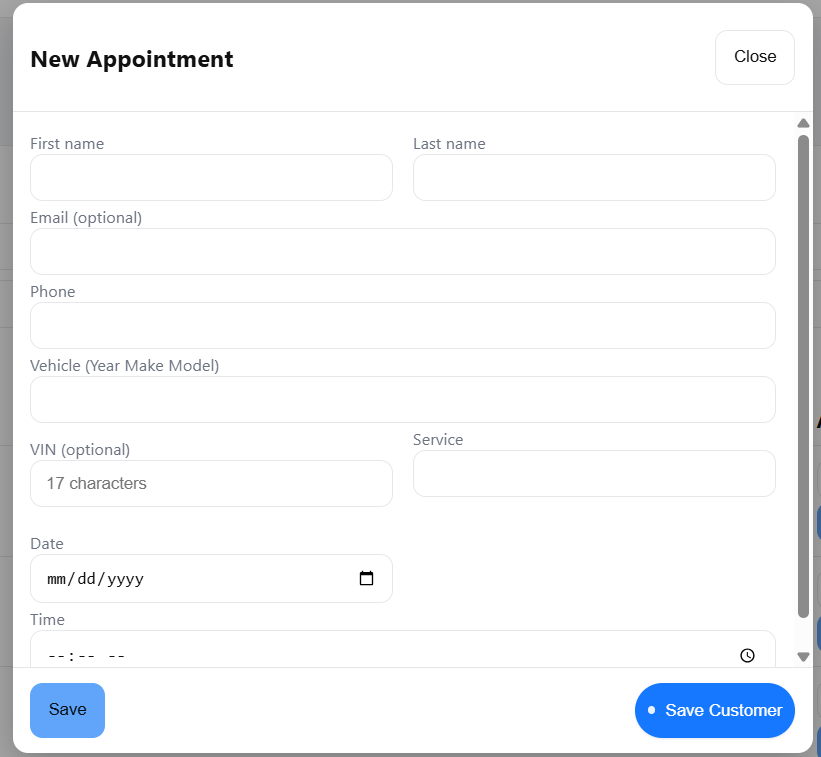
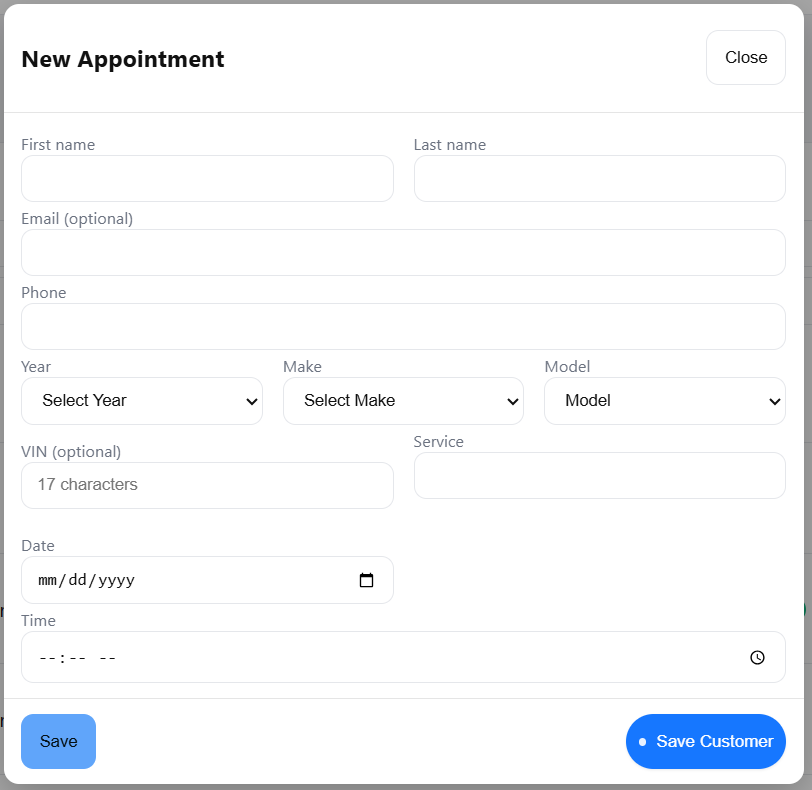
chore(appointments): adjust modal positioning and disable inner modal scroll; add updated feature images

diff --git a/features.html b/features.html
@@ -178,15 +178,16 @@
         margin-top: 8px;
         margin-bottom: 0;
       }
-      .features-main { padding: 0 4px; }
+      .features-main { padding: 0 12px; }
       .features-title { font-size: 1.3rem; }
       .features-desc { font-size: 1rem; margin-bottom: 24px; }
       .feature-section, .feature-section.reverse {
         flex-direction: column !important;
         gap: 8px;
-        padding: 8px 4px;
-        margin-bottom: 12px;
-        box-shadow: 0 1px 4px rgba(0,0,0,0.04);
+        padding: 12px;
+        margin-bottom: 16px;
+        box-shadow: 0 1px 6px rgba(0,0,0,0.06);
+        border-radius: 10px;
       }
       .feature-img {
         width: 100%;
@@ -203,6 +204,14 @@
       .slideshow img { border-radius: 10px; }
       .footer { font-size: 0.98rem; padding: 18px 0 8px 0; margin-top: 32px; }
     }
+
+    /* Image modal for feature screenshots */
+    .image-modal{ position:fixed; inset:0; display:flex; align-items:center; justify-content:center; background:rgba(0,0,0,0.6); z-index:2200 }
+    .image-modal.hidden{ display:none }
+    .image-modal-content{ position:relative; max-width:92%; max-height:92%; padding:10px; box-sizing:border-box }
+    .image-modal-content img{ width:auto; max-width:100%; max-height:82vh; display:block; border-radius:8px; box-shadow:0 12px 36px rgba(0,0,0,0.6) }
+    .image-modal-close{ position:absolute; top:-12px; right:-12px; width:40px; height:40px; border-radius:20px; border:none; background:#fff; color:#111; font-size:20px; cursor:pointer; box-shadow:0 6px 18px rgba(0,0,0,0.2) }
+    .image-modal-caption{ margin-top:8px; text-align:center; color:#fff; font-size:0.95rem }
   </style>
 </head>
 <body>
@@ -309,6 +318,14 @@
           </div>
         </div>
   </main>
+  <!-- Image modal -->
+  <div id="imageModal" class="image-modal hidden" aria-hidden="true">
+    <div class="image-modal-content" role="dialog" aria-modal="true">
+      <button class="image-modal-close" aria-label="Close">×</button>
+      <img id="imageModalImg" src="" alt="" />
+      <div id="imageModalCaption" class="image-modal-caption"></div>
+    </div>
+  </div>
   <footer class="footer" style="background:#f6f8ff;padding:32px 0 16px 0;text-align:center;color:#7f5fff;font-size:1.08rem;">
     <span>© 2025 Xpose Management</span>
     <div style="margin-top:18px;font-size:1.08rem;">
@@ -318,5 +335,40 @@
       <a href="contact.html" style="color:#2a7cff;font-weight:600;">Contact/Support</a>
     </div>
   </footer>
+  <script>
+    (function(){
+      function openModal(src, alt){
+        const modal = document.getElementById('imageModal');
+        const img = document.getElementById('imageModalImg');
+        const cap = document.getElementById('imageModalCaption');
+        if(!modal || !img) return;
+        img.src = src;
+        img.alt = alt || '';
+        if(cap) cap.textContent = alt || '';
+        modal.classList.remove('hidden');
+        modal.setAttribute('aria-hidden','false');
+      }
+      function closeModal(){
+        const modal = document.getElementById('imageModal');
+        const img = document.getElementById('imageModalImg');
+        if(!modal || !img) return;
+        modal.classList.add('hidden');
+        modal.setAttribute('aria-hidden','true');
+        img.src = '';
+      }
+      document.addEventListener('DOMContentLoaded', function(){
+        const imgs = document.querySelectorAll('.feature-img, .slideshow img');
+        imgs.forEach(i => {
+          i.style.cursor = 'zoom-in';
+          i.addEventListener('click', (e) => { openModal(i.src, i.alt || ''); });
+        });
+        const closeBtn = document.querySelector('.image-modal-close');
+        const modal = document.getElementById('imageModal');
+        if(closeBtn) closeBtn.addEventListener('click', closeModal);
+        if(modal) modal.addEventListener('click', (e) => { if(e.target === modal) closeModal(); });
+        document.addEventListener('keydown', (e) => { if(e.key === 'Escape') closeModal(); });
+      });
+    })();
+  </script>
 </body>
 </html>

diff --git a/appointments.html b/appointments.html
@@ -23,8 +23,36 @@
     .splitbar .left { display:flex; align-items:center; gap:8px; }
     .splitbar .right { display:flex; align-items:center; gap:8px; }
 
-    .modal-backdrop { position:fixed; inset:0; background:rgba(0,0,0,.35); display:flex; align-items:center; justify-content:center; z-index:70; }
-    .modal-card { width:min(640px,92vw); background:var(--card,#fff); color:inherit; border-radius:12px; box-shadow:0 10px 30px rgba(0,0,0,.25); }
+    /* Align modals below the sticky header on desktop, but keep them centered on small screens */
+    .modal-backdrop {
+      position: fixed;
+      inset: 0;
+      background: rgba(0,0,0,0.35);
+      display: flex;
+      align-items: flex-start; /* sit below header */
+      padding-top: 56px; /* account for header height (reduced to open higher) */
+      justify-content: center;
+      z-index: 10020;
+      overflow: auto;
+    }
+    .modal-card {
+      width: min(640px, 92vw);
+      background: var(--card, #fff);
+      color: inherit;
+      border-radius: 12px;
+      box-shadow: 0 10px 30px rgba(0,0,0,0.25);
+      margin: 12px 0; /* ensure some breathing room when content is tall */
+    }
+
+    @media (max-width: 768px) {
+      .modal-backdrop { align-items: center; padding-top: 0; }
+    }
+    /* Ensure appointment modals don't show an inner scrollbar; let the backdrop scroll when modal
+       content is slightly taller than viewport. This overrides the global `.modal-body` rule. */
+    .modal-backdrop .modal-card .modal-body {
+      overflow: visible !important;
+      max-height: none !important;
+    }
     .modal-head { display:flex; align-items:center; justify-content:space-between; padding:12px 14px; border-bottom:1px solid var(--border,#e5e5e5); }
     .modal-body { padding:12px 14px; }
     .modal-foot { display:flex; justify-content:flex-end; gap:8px; padding:12px 14px; border-top:1px solid var(--border,#e5e5e5); }
